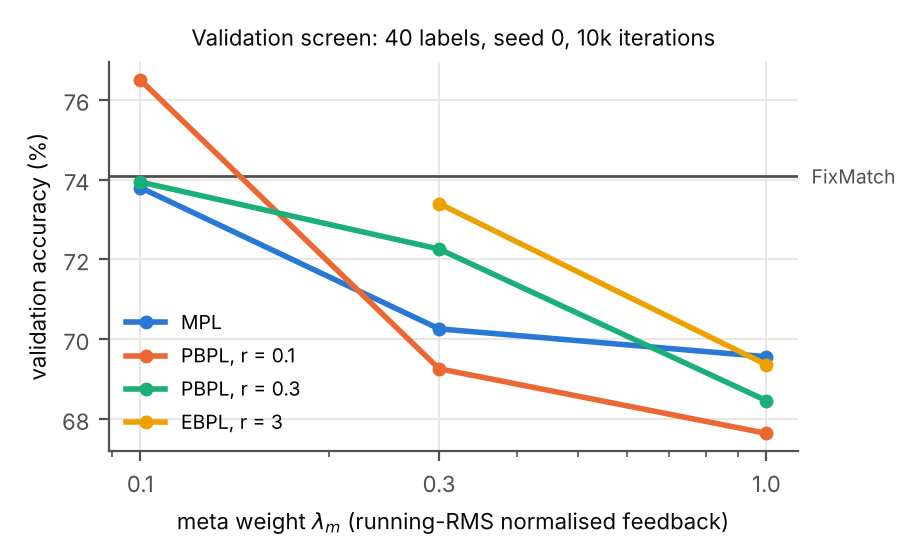
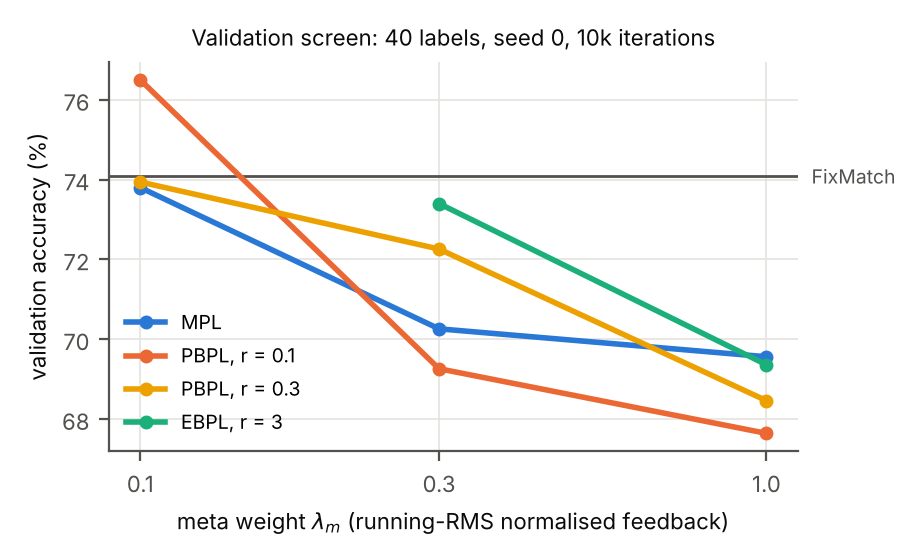
README: selected configurations and reproduction steps; fixed method colours; curves figure; FixMatch tuning grid in ablation sweep
Claude-Session: https://claude.ai/code/session_01SQLRLdi6inDxbq9CUzYVS5

diff --git a/analysis/figures.py b/analysis/figures.py
@@ -3,9 +3,10 @@
 reference palette, light mode), neutral ink for text, recessive grid, one y-axis per panel.
 
   python analysis/figures.py screen      # Figs from the validation screen
-  python analysis/figures.py degeneracy  # static degeneracy diagnostic (after ablate-a)
+  python analysis/figures.py degeneracy  # static degeneracy diagnostic (checks/degeneracy_static.py)
   python analysis/figures.py figure1     # Figure 1 protocol (after ablate-b)
   python analysis/figures.py main        # paired differences vs FixMatch (after main-a/b)
+  python analysis/figures.py curves      # training curves of the main runs (after main-a/b)
 """
 import glob
 import json
@@ -24,6 +25,8 @@ ROOT = os.path.dirname(os.path.dirname(os.path.abspath(__file__)))
 OUT = os.path.join(ROOT, "docs", "figures")
 SERIES = ["#2a78d6", "#eb6834", "#1baf7a", "#eda100", "#e87ba4", "#008300", "#6250d6", "#e34948"]
 INK, INK2, GRID = "#0b0b0b", "#52514e", "#e4e3df"
+# colour follows the method in every figure; FixMatch is the neutral reference
+COL = {"mpl": SERIES[0], "pbpl": SERIES[1], "ebpl": SERIES[2], "pbpl_r0.3": SERIES[3], "fixmatch": INK2}
 plt.rcParams.update({
     "font.size": 8, "axes.edgecolor": INK2, "axes.labelcolor": INK, "xtick.color": INK2,
     "ytick.color": INK2, "axes.grid": True, "grid.color": GRID, "grid.linewidth": 0.6,
@@ -75,16 +78,19 @@ def screen():
     fm = 100 * R["scr_fixmatch"]["final"]["val_ema"]
     ax.axhline(fm, color=INK2, lw=1.0, ls="-")
     ax.annotate("FixMatch", (1.02, fm), xycoords=("axes fraction", "data"), va="center", fontsize=7, color=INK2)
-    for i, (lab, pat) in enumerate([("MPL", "scr_opt_lm{}"), ("PBPL, r = 0.1", "scr_pess_lm{}_r0.1"),
-                                    ("PBPL, r = 0.3", "scr_pess_lm{}_r0.3"), ("EBPL, r = 3", "scr_exp_lm{}_r3.0")]):
+    for i, (lab, pat, col) in enumerate([("MPL", "scr_opt_lm{}", COL["mpl"]),
+                                         ("PBPL, r = 0.1", "scr_pess_lm{}_r0.1", COL["pbpl"]),
+                                         ("PBPL, r = 0.3", "scr_pess_lm{}_r0.3", COL["pbpl_r0.3"]),
+                                         ("EBPL, r = 3", "scr_exp_lm{}_r3.0", COL["ebpl"])]):
         xs, ys = [], []
         for lm in [0.1, 0.3, 1.0]:
             n = pat.format(lm)
             if n in R:
                 xs.append(lm)
                 ys.append(100 * R[n]["final"]["val_ema"])
-        ax.plot(xs, ys, "-o", ms=4, color=SERIES[i], label=lab)
+        ax.plot(xs, ys, "-o", ms=4, color=col, label=lab)
     ax.set_xscale("log")
+    ax.minorticks_off()
     ax.set_xticks([0.1, 0.3, 1.0])
     ax.set_xticklabels(["0.1", "0.3", "1.0"])
     ax.set_xlabel(r"meta weight $\lambda_m$ (running-RMS normalised feedback)")
@@ -97,7 +103,7 @@ def screen():
 
 
 def degeneracy():
-    f = glob.glob(os.path.join(ROOT, "results/fmnist-ssl-ablate-a/results/degeneracy_static.json"))
+    f = sorted(glob.glob(os.path.join(ROOT, "results/**/degeneracy_static.json"), recursive=True))
     d = json.load(open(f[0]))
     rows = [r for v in d["results"].values() for r in v]
     keys = [("gT_opt", "optimistic (MPL)", SERIES[0], "-"), ("gT_pess_r0.1", "pessimistic, r = 0.1", SERIES[1], "--"),
@@ -125,7 +131,7 @@ def degeneracy():
 
 
 def figure1():
-    f = glob.glob(os.path.join(ROOT, "results/fmnist-ssl-ablate-b/results/figure1.json"))
+    f = sorted(glob.glob(os.path.join(ROOT, "results/**/figure1.json"), recursive=True))
     d = json.load(open(f[0]))
     rows = [r for v in d["results"].values() for r in v]
     fig, ax = plt.subplots(figsize=(4.6, 2.9))
@@ -164,7 +170,7 @@ def main():
             v = res.get((meth, npc), {})
             common = sorted(set(v) & set(base))
             dif = [v[s] - base[s] for s in common]
-            ax.scatter([i] * len(dif), dif, s=18, color=SERIES[i], zorder=3)
+            ax.scatter([i] * len(dif), dif, s=18, color=COL[meth], zorder=3)
             if dif:
                 ax.plot([i - 0.2, i + 0.2], [np.mean(dif)] * 2, color=INK, lw=1.5)
         ax.axhline(0, color=INK2, lw=0.8)
@@ -175,6 +181,43 @@ def main():
     fig.tight_layout()
     os.makedirs(OUT, exist_ok=True)
     fig.savefig(os.path.join(OUT, "main_paired.png"))
+    print("wrote", OUT)
+
+
+def curves():
+    """Mean over seeds of test accuracy (EMA teacher) and of the masked pseudo-label accuracy
+    along training, FixMatch vs the three bilevel feedback rules, 40 and 100 labels."""
+    R = _load("results/fmnist-ssl-main-*/results/*.json")
+    runs = defaultdict(list)
+    for n, r in R.items():
+        m = re.match(r"(.+)_(\d+)_s(\d+)$", n)
+        if m:
+            runs[(m.group(1), int(m.group(2)))].append(r["hist"])
+    meths = [("fixmatch", "FixMatch"), ("mpl", "MPL"), ("ebpl", "EBPL"), ("pbpl", "PBPL")]
+    fig, axes = plt.subplots(2, 2, figsize=(6.4, 4.6))
+    for j, npc in enumerate((4, 10)):
+        for row, key, ylab, scale in [(0, "test_ema", "test accuracy (%)", 100),
+                                      (1, "pl_acc_masked", "pseudo-label accuracy\nabove threshold (%)", 100)]:
+            ax = axes[row, j]
+            for meth, lab in meths:
+                hs = runs.get((meth, npc), [])
+                if not hs:
+                    continue
+                its = sorted(set.intersection(*[{d["iter"] for d in h if key in d} for h in hs]))
+                y = [scale * np.mean([next(d[key] for d in h if d["iter"] == i) for h in hs]) for i in its]
+                ax.plot(its, y, color=COL[meth], lw=1.6 if meth != "fixmatch" else 1.2,
+                        ls="-" if meth != "fixmatch" else "--", label=f"{lab} (n={len(hs)})")
+            ax.set_ylabel(ylab)
+            if row == 0:
+                ax.set_title(f"{10 * npc} labels", fontsize=8, color=INK)
+                lo = ax.get_ylim()
+                ax.set_ylim(max(lo[0], 50), lo[1])
+            else:
+                ax.set_xlabel("iteration")
+        axes[0, j].legend(fontsize=6.5, loc="lower right")
+    fig.tight_layout()
+    os.makedirs(OUT, exist_ok=True)
+    fig.savefig(os.path.join(OUT, "main_curves.png"))
     print("wrote", OUT)
 
 

diff --git a/sweeps/make_sweeps.py b/sweeps/make_sweeps.py
@@ -150,8 +150,16 @@ def ablations(it=20000):
         b.append({"name": f"abl_pbplflex_4_s{sd}", "args": f"--base flexmatch --bilevel two --feedback pess {PESS} {c}"})
         b.append({"name": f"abl_fibersam_4_s{sd}", "args": f"--lab_reg fibersam --radius 0.1 {c}"})
         b.append({"name": f"abl_labsam_4_s{sd}", "args": f"--lab_reg sam --radius 0.1 {c}"})
-    a.append({"name": "degeneracy_static", "script": "degeneracy_static.py",
-              "args": "--out /kaggle/working/results/degeneracy_static.json --device cuda"})
+    # FixMatch gets a tuning budget comparable to MPL / EBPL (6 configurations), same protocol
+    # as the bilevel screen: validation accuracy, seed 0, 40 labels, 10k iterations.
+    for tau in (0.8, 0.9, 0.95):
+        for lu in (1.0, 2.0):
+            if (tau, lu) != (0.95, 1.0):  # default = scr_fixmatch in the screen
+                a.append({"name": f"scr_fm_tau{tau}_lu{lu}",
+                          "args": f"--base fixmatch --tau {tau} --lam_u {lu} --n_per_class 4 --seed 0 --iters 10000"})
+    if not os.path.exists(os.path.join(HERE, "..", "results", "local", "degeneracy_static.json")):
+        a.append({"name": "degeneracy_static", "script": "degeneracy_static.py",
+                  "args": "--out /kaggle/working/results/degeneracy_static.json --device cuda"})
     b.append({"name": "figure1", "script": "figure1_fmnist.py",
               "args": "--out /kaggle/working/results/figure1.json --device cuda"})
     files = ["checks/figure1_fmnist.py", "checks/degeneracy_static.py"]

diff --git a/README.md b/README.md
@@ -7,11 +7,12 @@ regularizer on top of FixMatch, plus the baselines and ablations needed to test 
   Pseudo-Label / Mean Teacher, MPL feedback, PBPL / EBPL feedback, SAM controls).
 - `docs/theory.md` — formulation, non-degeneracy propositions and proofs, algorithm.
 - `checks/` — numerical checks: exactness of the meta-gradient (`check_metagrad.py`) and
-  the fixed-point non-degeneracy proposition on a toy MLP (`check_nondegeneracy.py`).
+  the fixed-point non-degeneracy proposition on a toy MLP (`check_nondegeneracy.py`) and on
+  the real CNN (`degeneracy_static.py`); `figure1_fmnist.py` reproduces the review protocol.
 - `kaggle_tools/kaggle_run.py` — builds a Kaggle script kernel from a sweep file and runs
   one job per GPU (T4 x2); `push`, `status`, `fetch`, `logs`.
 - `sweeps/` — the sweep files that were run; `results/` — downloaded outputs;
-  `analysis/aggregate.py` — tables.
+  `analysis/` — tables and figures; `docs/report.md` — the experimental report.
 
 Quick start (CPU smoke test):
 
@@ -19,18 +20,44 @@ Quick start (CPU smoke test):
 python ssl_fmnist.py --iters 20 --bl 8 --mu 2 --eval_every 10 --eval_max 500 --device cpu --bilevel two --feedback pess
 ```
 
-Main configurations:
+Main configurations (hyper-parameters selected on the validation split, seed 0, 40 labels):
 
 | method | flags |
 |---|---|
-| FixMatch | `--base fixmatch` |
+| FixMatch | `--base fixmatch` (τ = 0.95, λ_u = 1) |
 | FlexMatch | `--base flexmatch` |
-| MPL + FixMatch (optimistic feedback) | `--bilevel two --feedback opt` |
-| **PBPL + FixMatch** | `--bilevel two --feedback pess --radius r --beta b` |
-| **EBPL + FixMatch** | `--bilevel two --feedback exp --radius r --k_proj K` |
-| SAM-feedback control (ε reset, blind to X_u) | `--bilevel two --feedback sam` |
-| one-network PBPL (look-ahead student) | `--bilevel self --feedback pess` |
-| FixMatch + SAM / fiber-SAM on labeled loss | `--lab_reg sam` / `--lab_reg fibersam` |
+| MPL + FixMatch (optimistic feedback) | `--bilevel two --feedback opt --lam_m 0.1` |
+| **PBPL + FixMatch** (pessimistic, hard radius) | `--bilevel two --feedback pess --lam_m 0.1 --radius 0.1` |
+| **EBPL + FixMatch** (expected) | `--bilevel two --feedback exp --lam_m 0.3 --radius 3.0` |
+| SAM-feedback control (ε reset, blind to X_u) | `--bilevel two --feedback sam --lam_m 0.1 --radius 0.1` |
+| one-network PBPL (look-ahead student) | `--bilevel self --feedback pess --lam_m 0.1 --radius 0.1` |
+| FixMatch + SAM / fiber-SAM on labeled loss | `--lab_reg sam --radius 0.1` / `--lab_reg fibersam --radius 0.1` |
+
+Add `--n_per_class {4,10} --seed s --iters 20000` for the main-table runs.  The inner
+pessimistic problem uses the ascent-then-retract solver (`--pess_solver retract --k_proj 2
+--alpha 0.5`, defaults); the feedback is normalised by its running RMS (`--meta_norm 2`).
+
+Reproducing the experiments (Kaggle, T4 x2, two kernels at a time):
+
+```bash
+python3 sweeps/make_sweeps.py main_table
+```
+
+```bash
+python3 kaggle_tools/kaggle_run.py push sweeps/main-a.json
+```
+
+```bash
+python3 kaggle_tools/kaggle_run.py fetch fmnist-ssl-main-a
+```
+
+```bash
+python3 analysis/main_table.py results/fmnist-ssl-main-a results/fmnist-ssl-main-b --md docs/main_table.md
+```
+
+The same for `ablations` (`ablate-a.json`, `ablate-b.json`).  `checks/degeneracy_static.py`
+(Prop. N2 on the real CNN) runs on CPU in about an hour; `analysis/figures.py` renders the
+figures in `docs/figures/`.
 
 Kaggle: put your username in `.kaggle_user` (untracked) and your API token in
 `~/.kaggle/access_token`; never commit either.
